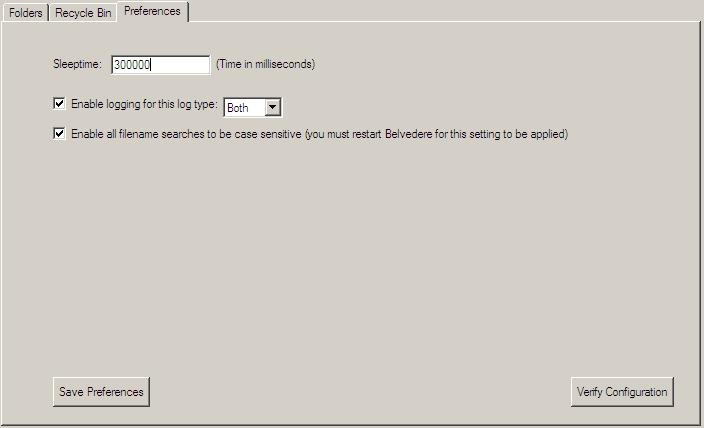
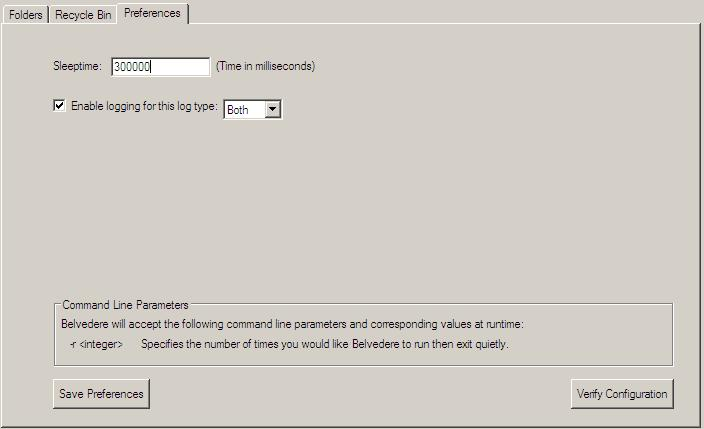
added verb 'contins one of' so that you can have a comma separated list added ability to read command line parameters, only -r for run count at this time updated help text for new screenshots and functionality removed all references to Case Sensitivity (that was stupid to put in)

diff --git a/help/tab-preferences.htm b/help/tab-preferences.htm
@@ -11,7 +11,7 @@
 <img src="images/tab-prefs-full.JPG"><br /><br />
 <a href="#sleep">Sleeptime</a><br />
 <a href="#log">System Logging</a><br />
-<a href="#case">Case Sensitive Search</a><br />
+<a href="#cmd">Command Line Parameters</a><br />
 <a href="#verify">Verify Configuration</a><br />
 <hr />
 <a name="sleep"><h2>Sleeptime</h2></a>
@@ -34,7 +34,6 @@
 </ol>
 <h3>Examples:</h3>
 <ul>
-<style="monospace">
 <dl>
 <dt>System Events</dt><br />
 <dd style="font-family: monospace">2009-04-28 10:38:00 Logging has been enabled with type: Both</dd><br />
@@ -46,12 +45,20 @@
 <dd style="font-family: monospace">2009-04-28 10:38:14 Destination: C:\Documents and Settings\test\Desktop\pdf</dd>
 <dd style="font-family: monospace">2009-04-28 10:38:14 ======================================</dd>
 </dl>
-</style>
 </ul>
 <a href="#top">Top</a><br />
 <hr />
-<a name="case"><h2>Case Sensitive Search</h2></a>
-<p>Case sensitivity can be turned on or off globally for all filename searches.  To enable or disable this setting, check or uncheck the box, respectively.  A change to this particular setting will not take place until the application has been restarted.  Users will be prompted to restart immediately after the setting is changed, but may decline in order to delay the setting take place until after the next start of the application.</p>
+<a name="cmd"><h2>Command Line Parameters</h2></a>
+<p>Belvedere has the ability accept command line parameters to alter various settings of the application at runtime.  The following parameters and their values are currently accepted by Belvedere:</p>
+<ul>
+<dl>
+<dt style="font-family: monospace">-r&nbsp;&lt;integer&gt;</dt>
+<dd style="font-family: monospace">Specifies the number of times that you would like Belvedere to run and then exit quietly.</dd>
+<dd style="font-family: monospace">Example:  Belvedere.exe -r 5  will result in Belvedere running through all rules 5 times and then exiting quietly.</dd> 
+</dl>
+</ul>
+<p>NOTE:  All parameters and their corresponding values must be separated by a space in order to be accepted.  If any invalid parameters or values are entered, Belvedere will run normally without any settings modified.</p>
+<p>If <em>System</em> logging is enabled, both the initial acceptance of the setting and the exit event will be recorded in the event log.</p>
 <a href="#top">Top</a><br />
 <hr />
 <a name="verify"><h2>Verify Configuration</h2></a>

diff --git a/help/rule-create.htm b/help/rule-create.htm
@@ -38,6 +38,7 @@
 	  <li><strong>does not match one of</strong> - acts upon a file if the filename does not match any one of the elements in a comma separated list.  NOTE:  The list must not contain spaces between the elements and the comma, otherwise you may miss a match.</li>
 	  <li><strong>contains</strong> - acts upon a file if the filename contains the specified text exactly.</li>
 	  <li><strong>does not contain</strong> - acts upon a file if it does not contain the specified text exactly.</li>
+	  <li><strong>contains one of</strong> - acts upon a file if the filename contains any one of the elements in a comma separated list.  NOTE:  The list must not contain spaces between the elements and the comma, otherwise you may miss a match.</li>
 	</ul>
 <li><strong>extension</strong> - This subject acts upon the file extension of the file in question, excluding the filename and '.'.</li>
 	<ul>
@@ -47,6 +48,7 @@
 	  <li><strong>does not match one of</strong> - acts upon a file if the file extension does not match any one of the elements in a comma separated list.  NOTE:  The list must not contain spaces between the elements and the comma, otherwise you may miss a match.</li>
 	  <li><strong>contains</strong> - acts upon a file if the file extension contains the specified text exactly.</li>
 	  <li><strong>does not contain</strong> - acts upon a file if the file extension does not contained the specified text exactly.</li>
+	  <li><strong>contains one of</strong> - acts upon a file if the filename contains any one of the elements in a comma separated list.  NOTE:  The list must not contain spaces between the elements and the comma, otherwise you may miss a match.</li>
 	</ul>
 </ul>
 

diff --git a/help/index.htm b/help/index.htm
@@ -20,11 +20,12 @@ QA & Testing: Dustin Luck</p>
 <pre>
 Version 0.5
 	added system and action logging and viewer
-	added case sensitivity/insensitivity
+	added new verb 'contains one of'
 	added basic recycle bin cleaning
 	added backup/import settings
 	added ability to pause
 	added ability to compress on move/copy
+	added ability to accept command line parameters
 	added status bar
 	added help file
 	minor code cleanup
